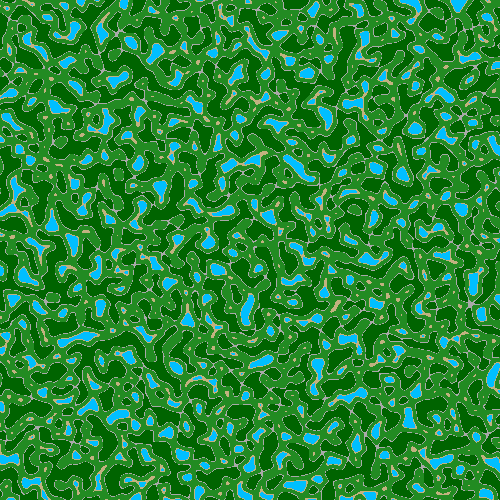
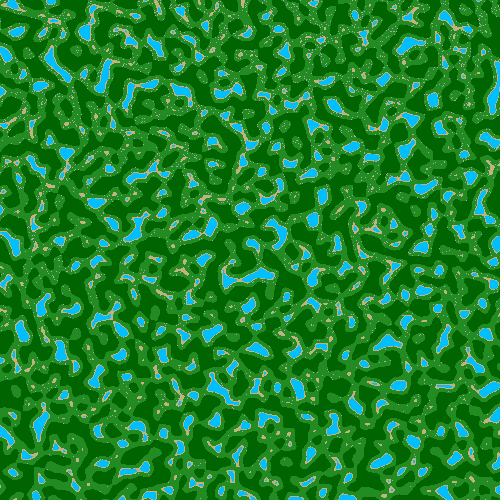
Better rock placement

diff --git a/src/main/java/com/example/rpg/PrimaryController.java b/src/main/java/com/example/rpg/PrimaryController.java
@@ -467,10 +467,15 @@ public class PrimaryController {
                         generatedMap[y][x] = 6; // Sand (6)
                     } else if (value < 0.1) {
                             generatedMap[y][x] = 0; // Tree (3)
-                    } else if (value < 0.2) {
-                        generatedMap[y][x] = 1; // Stone (1)
                     } else {
                         generatedMap[y][x] = 3; // Grass (0)
+                    }
+                }
+                for (int i = 0; i < 35; i++) {
+                    int x = rand.nextInt(width);
+                    int b = rand.nextInt(height);
+                    if (generatedMap[b][x] == 0) {
+                        generatedMap[b][x] = 1; // Rock (1)
                     }
                 }
             }
